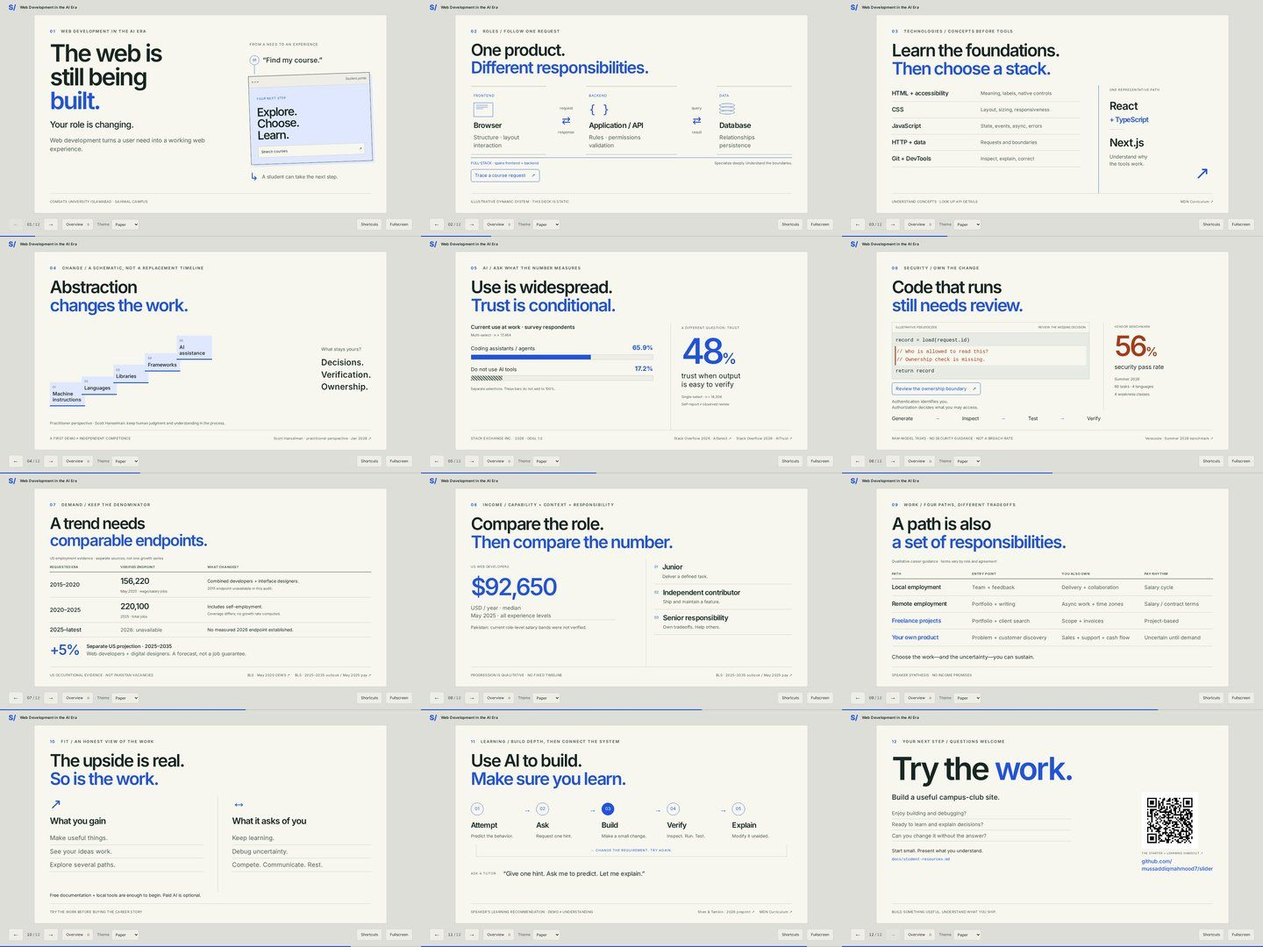
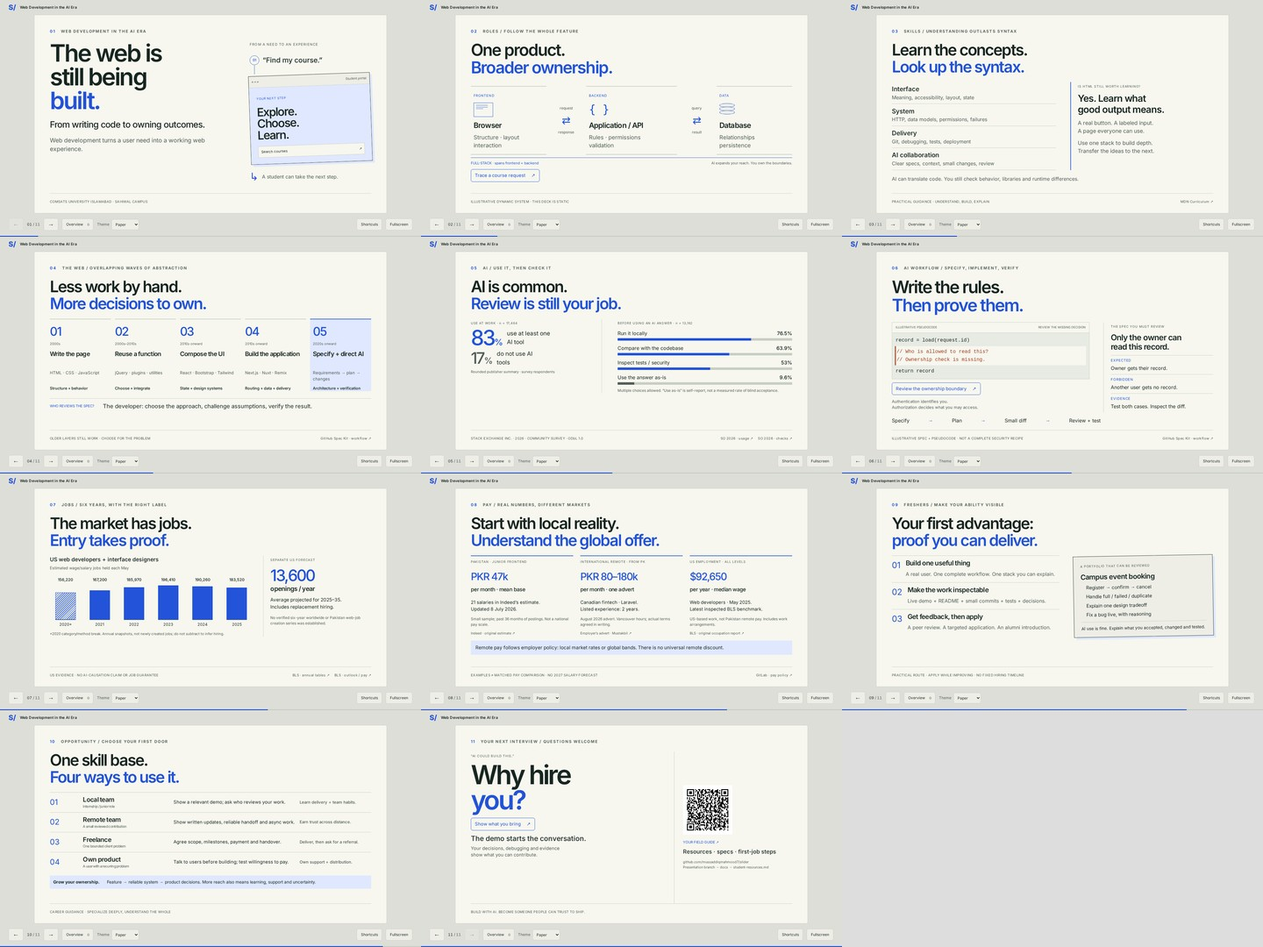
docs: align the student field guide and rehearsal record with eleven slides

diff --git a/docs/student-resources.md b/docs/student-resources.md
@@ -2,6 +2,36 @@
 
 A student handout for **Web Development in the AI Era**, COMSATS Sahiwal. Reviewed 17 October 2026. This is a menu, not a completion checklist. Start with the first path; choose deeper resources only when your project needs them. Free docs and local tooling are enough to begin. Save useful pages for intermittent internet; a paid AI plan is optional.
 
+## A spec you can build and review
+
+**Problem:** students need to reserve a place at a campus event. Start with one stack and a small workflow, then add complexity only when needed.
+
+- **Behavior:** show event capacity; reserve one place; confirm or cancel the reservation.
+- **Rules:** prevent duplicate booking; never exceed capacity; only the owner can cancel.
+- **Failure cases:** full event, failed request, invalid data, another user’s reservation.
+- **Acceptance:** test the successful booking and each forbidden case; check keyboard use and readable errors.
+- **Delivery:** a working demo, documented setup, small reviewed changes and an explanation of design choices.
+
+For a static first version, simulate data locally and label that limitation. Do not pretend a browser-only ownership check secures a real multi-user service. Add a server/database only when implementing real shared bookings.
+
+Ask AI: “Read this spec and existing code. List ambiguities before coding. Propose a small plan. Implement one change, add relevant tests, explain the diff.” Review the plan and tests as carefully as the code. Predict behavior, try it, inspect failures, then make a change without the full answer. [GitHub Spec Kit](https://github.com/github/spec-kit) is an optional documented workflow to explore after you understand the basic process.
+
+## Turn the project into a first-job packet
+
+1. **One-minute demo:** show the complete workflow, one failure and what you personally changed.
+2. **Readable repository:** setup instructions, meaningful commits, tests, one tradeoff and known limitations. State how AI helped and how you verified it.
+3. **Practice explaining:** trace a request, fix an introduced bug, explain a permission boundary, change one requirement.
+4. **Get review:** ask a peer/alumnus for specific feedback; improve the work. Contribute one small useful fix to a project you understand.
+5. **Apply deliberately:** select relevant junior roles/internships, tailor a short message with the demo, track responses and improve the gaps. Ask about supervision, review and actual contract terms.
+
+For remote work, add clear written progress and handoff examples. For a first freelance client, agree a small scope, acceptance, milestones, payment and handover. For a product, interview potential users before building and test willingness to pay. None of these routes guarantees hiring or income on a fixed schedule.
+
+## Check pay without importing a fantasy
+
+As inspected on 17 October 2026: [Indeed’s Pakistan junior frontend estimate](https://pk.indeed.com/career/junior-front-end-developer/salaries) is PKR 47,282/month average base, just 21 salaries, updated July 8. A [Canadian fintech’s Pakistan remote advert](https://www.mustakbil.com/jobs/job/1434430) lists PKR 80–180k/month for a role with two years’ listed experience and Vancouver overlap. They are limited examples, not a national salary ladder or guaranteed graduate offers.
+
+The [US BLS web-developer median](https://www.bls.gov/ooh/computer-and-information-technology/web-developers.htm) is $92,650/year for May 2025, all experience levels and work arrangements, not an on-site-only rate or Pakistan remote wage. [GitLab](https://handbook.gitlab.com/handbook/total-rewards/compensation/) uses local market pay; [Automattic’s experienced-engineer advert](https://automattic.com/work-with-us/job/experienced-software-engineer/) publishes a global USD 70–170k range regardless of location. Neither policy describes every remote employer. Check currency, period, benefits, tax, contract status, hours, equipment, leave and payment terms. No universal on-site/remote discount or future raise is established. See the [research ledger](research.md) for exact scope.
+
 ## Begin here
 
 1. **Run and change a page.** Follow [MDN Learn](https://developer.mozilla.org/en-US/docs/Learn_web_development). Create a campus-club information page with real headings, links and a labeled form. Explain what the browser renders.
@@ -64,21 +94,21 @@ Frontend and backend specialization remain valid. Learn adjacent concepts progre
 
 Choose one or two reports that answer your question; you do not need to read them all. The [research ledger](research.md) records exact stage values and access limits.
 
-| Original publisher / resource                                                                                                                                                                                         | Why read it / what it cannot tell you                                                                                                                                               |
-| --------------------------------------------------------------------------------------------------------------------------------------------------------------------------------------------------------------------- | ----------------------------------------------------------------------------------------------------------------------------------------------------------------------------------- |
-| [Stack Overflow 2026 AISelect](https://survey.stackoverflow.co/2026/ai/data/ai-select), [AITrust](https://survey.stackoverflow.co/2026/ai/data/ai-trust), [methods](https://survey.stackoverflow.co/2026/methodology) | Inspect different questions and bases. Community self-report is not all developers; usage, plans, trust and actual review differ. Data attribution: Stack Exchange Inc., ODbL 1.0.  |
-| [Veracode 2026 full report](https://view.ceros.com/veracode/genai-code-security-report2026)                                                                                                                           | Read Summer benchmark methods and task scope before repeating a security percentage. Raw-model task failures are not production incidents.                                          |
-| [Perry et al.](https://arxiv.org/html/2211.03622v3) and [Sandoval et al., USENIX](https://www.usenix.org/conference/usenixsecurity23/presentation/sandoval)                                                           | Compare matched human studies with older tools and different tasks. Results do not justify a universal AI-versus-human incident ratio.                                              |
-| [Shen & Tamkin, 2026 preprint](https://arxiv.org/html/2601.20245v2)                                                                                                                                                   | Distinguish immediate comprehension when learning Trio from long-term retention or all web students. Interaction patterns are exploratory.                                          |
-| [METR 2026 update](https://metr.org/blog/2026-02-24-uplift-update/)                                                                                                                                                   | Learn why tool changes and selection complicate developer-productivity estimates. No universal speed multiplier.                                                                    |
-| [DORA 2025](https://dora.dev/research/2025/dora-report/)                                                                                                                                                              | Organizational delivery practices and AI context; official entry includes report/errata. No numerical claim here from an unread full report.                                        |
-| [WEF Future of Jobs 2025](https://www.weforum.org/publications/the-future-of-jobs-report-2025/)                                                                                                                       | Employer expectations across economies/occupations; not realized web vacancies or a Pakistan graduate guarantee.                                                                    |
-| [BLS current web occupation outlook](https://www.bls.gov/ooh/computer-and-information-technology/web-developers.htm) and [2020 occupation definition](https://www.bls.gov/oes/2020/may/oes151257.htm)                 | US employment, wages and projections. Check occupation, geography, reference year and self-employment coverage.                                                                     |
-| [SlashData population estimates](https://www.slashdata.co/research/developer-population)                                                                                                                              | Commercial global developer-population estimates with methodological explanation; population is not job openings.                                                                   |
-| [P@SHA publications](https://www.pasha.org.pk/publications/)                                                                                                                                                          | Pakistan industry skills/compensation leads. Full current sources were inaccessible in this audit; inspect original questions before using numbers. No local bands were fabricated. |
-| [SBP data catalogue](https://www.sbp.org.pk/economic-data)                                                                                                                                                            | Original trade/service receipts; read sector and fiscal period. Exports do not count web vacancies. Report retrieval was blocked in this audit.                                     |
-| [PSEB reports](https://techdestination.com/rules-reports/)                                                                                                                                                            | Original sector/program publications; review report dates and definitions. Promotional/sector activity is not a hiring census.                                                      |
-| [PBS labour statistics](https://www.pbs.gov.pk/labour-force-statistics/)                                                                                                                                              | Original Pakistan labor-survey leads, classifications and broad platform-work context; detailed web employment was not established here.                                            |
-| [Scott Hanselman podcast, January 2026](https://stackoverflow.blog/2026/01/13/vibe-code-anything-in-a-hanselminute/)                                                                                                  | Practitioner perspective on human judgment, separate from measured findings.                                                                                                        |
+| Original publisher / resource                                                                                                                                                                                                | Why read it / what it cannot tell you                                                                                                                                                                                                                                       |
+| ---------------------------------------------------------------------------------------------------------------------------------------------------------------------------------------------------------------------------- | --------------------------------------------------------------------------------------------------------------------------------------------------------------------------------------------------------------------------------------------------------------------------- |
+| [Stack Overflow 2026 AISelect](https://survey.stackoverflow.co/2026/ai/data/ai-select), [AIWorkNext](https://survey.stackoverflow.co/2026/ai/data/ai-work-next), [methods](https://survey.stackoverflow.co/2026/methodology) | Inspect different questions and bases. Community self-report is not all developers; usage, plans, trust and actual review differ. Data attribution: Stack Exchange Inc., ODbL 1.0.                                                                                          |
+| [Veracode 2026 full report](https://view.ceros.com/veracode/genai-code-security-report2026)                                                                                                                                  | Read Summer benchmark methods and task scope before repeating a security percentage. Raw-model task failures are not production incidents.                                                                                                                                  |
+| [Perry et al.](https://arxiv.org/html/2211.03622v3) and [Sandoval et al., USENIX](https://www.usenix.org/conference/usenixsecurity23/presentation/sandoval)                                                                  | Compare matched human studies with older tools and different tasks. Results do not justify a universal AI-versus-human incident ratio.                                                                                                                                      |
+| [Shen & Tamkin, 2026 preprint](https://arxiv.org/html/2601.20245v2)                                                                                                                                                          | Distinguish immediate comprehension when learning Trio from long-term retention or all web students. Interaction patterns are exploratory.                                                                                                                                  |
+| [METR 2026 update](https://metr.org/blog/2026-02-24-uplift-update/)                                                                                                                                                          | Learn why tool changes and selection complicate developer-productivity estimates. No universal speed multiplier.                                                                                                                                                            |
+| [DORA 2025](https://dora.dev/research/2025/dora-report/)                                                                                                                                                                     | Organizational delivery practices and AI context; official entry includes report/errata. No numerical claim here from an unread full report.                                                                                                                                |
+| [WEF Future of Jobs 2025](https://www.weforum.org/publications/the-future-of-jobs-report-2025/)                                                                                                                              | Employer expectations across economies/occupations; not realized web vacancies or a Pakistan graduate guarantee.                                                                                                                                                            |
+| [BLS current web occupation outlook](https://www.bls.gov/ooh/computer-and-information-technology/web-developers.htm) and [2020 occupation definition](https://www.bls.gov/oes/2020/may/oes151257.htm)                        | US employment, wages and projections. Check occupation, geography, reference year and self-employment coverage.                                                                                                                                                             |
+| [SlashData population estimates](https://www.slashdata.co/research/developer-population)                                                                                                                                     | Commercial global developer-population estimates with methodological explanation; population is not job openings.                                                                                                                                                           |
+| [P@SHA publications](https://www.pasha.org.pk/publications/)                                                                                                                                                                 | Pakistan industry skills/compensation leads. Full current sources were inaccessible in this audit; inspect original questions before using numbers. Platform estimates and employer adverts now provide limited local context; they are not the unread P@SHA salary tables. |
+| [SBP data catalogue](https://www.sbp.org.pk/economic-data)                                                                                                                                                                   | Original trade/service receipts; read sector and fiscal period. Exports do not count web vacancies. Report retrieval was blocked in this audit.                                                                                                                             |
+| [PSEB reports](https://techdestination.com/rules-reports/)                                                                                                                                                                   | Original sector/program publications; review report dates and definitions. Promotional/sector activity is not a hiring census.                                                                                                                                              |
+| [PBS labour statistics](https://www.pbs.gov.pk/labour-force-statistics/)                                                                                                                                                     | Original Pakistan labor-survey leads, classifications and broad platform-work context; detailed web employment was not established here.                                                                                                                                    |
+| [Scott Hanselman podcast, January 2026](https://stackoverflow.blog/2026/01/13/vibe-code-anything-in-a-hanselminute/)                                                                                                         | Practitioner perspective on human judgment, separate from measured findings.                                                                                                                                                                                                |
 
 For an offer, ask about the actual role, geography, currency, pay period, base/benefits, hours, scope and contract. US annual wages, PKR monthly pay, freelance revenue and business profit measure different things. None is a promise about you.

diff --git a/docs/asset-credits.md b/docs/asset-credits.md
@@ -2,15 +2,19 @@
 
 Access/download date: 17 October 2026. All stage assets are local. No stock photos, university logo, third-party chart screenshots, or remote font calls are included.
 
-| Asset                                                                                | Creator / source                                                                                                                                              | Rights / treatment                                                                                                                                                                                                                                                           |
-| ------------------------------------------------------------------------------------ | ------------------------------------------------------------------------------------------------------------------------------------------------------------- | ---------------------------------------------------------------------------------------------------------------------------------------------------------------------------------------------------------------------------------------------------------------------------- |
-| Typography: Inter Latin variable subset                                              | Rasmus Andersson; Fontsource package 5.3.0, https://www.npmjs.com/package/@fontsource-variable/inter; original https://github.com/rsms/inter                  | SIL OFL 1.1, included in `public/fonts/inter-OFL.txt`.                                                                                                                                                                                                                       |
-| Noto Sans Arabic variable subset (optional starter example)                          | The Noto Project; Fontsource package 5.3.0, https://www.npmjs.com/package/@fontsource-variable/noto-sans-arabic; original https://github.com/notofonts/arabic | SIL OFL 1.1, included in `public/fonts/noto-sans-arabic-OFL.txt`.                                                                                                                                                                                                            |
-| Student portal sketch, request diagram, abstraction ladder, practice loop and charts | Original HTML/CSS/React compositions in this repository                                                                                                       | Original code/design under MIT. Diagrams labeled illustrative/schematic; no borrowed logos.                                                                                                                                                                                  |
-| Repository QR, `public/images/repository-qr.svg`                                     | Generated locally using `qrcode` 1.5.4 (MIT utility, https://github.com/soldair/node-qrcode)                                                                  | Encodes the verified real URL https://github.com/mussaddiqmahmood7/slider. Black/white plate intentionally remains invariant for scanning in every theme. No runtime QR dependency.                                                                                          |
-| Selected AI usage/trust numbers                                                      | Stack Exchange Inc. (2026), Developer Survey AISelect/AITrust; exact URLs in `src/content/evidence.ts`                                                        | Original data under [ODbL 1.0](https://opendatacommons.org/licenses/odbl/1-0/), contents under DbCL 1.0. Attribution appears on slide 5. Only selected factual excerpts are used; no full dataset/report is redistributed or relicensed as MIT. Original chart code is ours. |
-| US employment, forecast and wage values                                              | US Bureau of Labor Statistics; original URLs in evidence file                                                                                                 | Attributed factual excerpts from US government publications; chart/table code is original. Occupation and coverage labels preserved.                                                                                                                                         |
-| Security benchmark headline                                                          | Veracode 2026 GenAI Code Security Report, https://view.ceros.com/veracode/genai-code-security-report2026                                                      | Cited factual result only; no report graphics/text/screenshots redistributed. All rights in the publication remain with Veracode.                                                                                                                                            |
-| Learning/security papers, official learning links, practitioner perspective          | Authors/publishers individually credited in research and handout                                                                                              | Links and short original paraphrases only. Papers/courses retain their respective rights; no course or paper files are bundled.                                                                                                                                              |
+| Asset                                                                                                               | Creator / source                                                                                                                                              | Rights / treatment                                                                                                                                                                                                                                                           |
+| ------------------------------------------------------------------------------------------------------------------- | ------------------------------------------------------------------------------------------------------------------------------------------------------------- | ---------------------------------------------------------------------------------------------------------------------------------------------------------------------------------------------------------------------------------------------------------------------------- |
+| Typography: Inter Latin variable subset                                                                             | Rasmus Andersson; Fontsource package 5.3.0, https://www.npmjs.com/package/@fontsource-variable/inter; original https://github.com/rsms/inter                  | SIL OFL 1.1, included in `public/fonts/inter-OFL.txt`.                                                                                                                                                                                                                       |
+| Noto Sans Arabic variable subset (optional starter example)                                                         | The Noto Project; Fontsource package 5.3.0, https://www.npmjs.com/package/@fontsource-variable/noto-sans-arabic; original https://github.com/notofonts/arabic | SIL OFL 1.1, included in `public/fonts/noto-sans-arabic-OFL.txt`.                                                                                                                                                                                                            |
+| Student portal sketch, request diagram, web waves, employment/review charts, portfolio receipt and interview reveal | Original HTML/CSS/React compositions in this repository                                                                                                       | Original code/design under MIT. Diagrams labeled illustrative/schematic; no borrowed logos.                                                                                                                                                                                  |
+| Repository QR, `public/images/repository-qr.svg`                                                                    | Generated locally using `qrcode` 1.5.4 (MIT utility, https://github.com/soldair/node-qrcode)                                                                  | Encodes the verified real URL https://github.com/mussaddiqmahmood7/slider. Black/white plate intentionally remains invariant for scanning in every theme. No runtime QR dependency.                                                                                          |
+| Selected AI usage/checking numbers                                                                                  | Stack Exchange Inc. (2026), Developer Survey AISelect/AIWorkNext; exact URLs in `src/content/evidence.ts`                                                     | Original data under [ODbL 1.0](https://opendatacommons.org/licenses/odbl/1-0/), contents under DbCL 1.0. Attribution appears on slide 5. Only selected factual excerpts are used; no full dataset/report is redistributed or relicensed as MIT. Original chart code is ours. |
+| US employment, forecast and wage values                                                                             | US Bureau of Labor Statistics; original URLs in evidence file                                                                                                 | Attributed factual excerpts from US government publications; chart/table code is original. Occupation and coverage labels preserved.                                                                                                                                         |
+| Security benchmark headline                                                                                         | Veracode 2026 GenAI Code Security Report, https://view.ceros.com/veracode/genai-code-security-report2026                                                      | Cited factual result only; no report graphics/text/screenshots redistributed. All rights in the publication remain with Veracode.                                                                                                                                            |
+| Learning/security papers, official learning links, practitioner perspective                                         | Authors/publishers individually credited in research and handout                                                                                              | Links and short original paraphrases only. Papers/courses retain their respective rights; no course or paper files are bundled.                                                                                                                                              |
 
 COMSATS is referenced in text to identify the venue. No university branding or endorsement is implied. Speaker name, employer and date are omitted because not supplied.
+
+The closing **resource QR**, `public/images/resources-qr.svg`, was generated locally with the same qrcode utility. It encodes `https://github.com/mussaddiqmahmood7/slider/tree/presentation/comsats-sahiwal/docs/student-resources.md`. Its high-contrast plate stays invariant across themes. No remote image or QR API is used.
+
+Pakistan salary figures are short factual excerpts attributed to Indeed’s original platform estimate and an employer-authored Mustakbil advert. GitLab/Automattic pay policies are linked and paraphrased; their texts, logos and job descriptions are not redistributed. These facts/links are not relicensed as MIT. The revised slide 6 omits the benchmark number; Veracode and original learning/security studies remain cited in research/speaker notes for context.

diff --git a/docs/validation.md b/docs/validation.md
@@ -25,9 +25,9 @@ A clean `npm ci`, check before building with no `.next` directory, and a fresh b
 
 The owner supplied [the public repository](https://github.com/mussaddiqmahmood7/slider); main is the default branch. Main CI [39013967894](https://github.com/mussaddiqmahmood7/slider/actions/runs/39013967894) passed, and v0.1.0 was pushed before event development. A subsequent accessibility audit found low-contrast muted controls in Sand; main's token was darkened and the core suite was rechecked. Custom ARIA widgets also keep keyboard ownership. An axe-core audit supplements the behavior suite, without adding another test runner or runtime dependency. Template status still requires repository administration API access or the owner's GitHub setting.
 
-## COMSATS presentation result
+## Initial COMSATS presentation result — historical
 
-The event registry contains 12 slides. The opening, system diagram and evidence composition were rendered at 1920×1080 and 1366×768 in all four themes before the remaining deck was filled. The visual direction uses editorial typography, ruled diagrams, a schematic ladder, labeled evidence, comparisons and a practice loop; all inherit semantic theme colors. `docs/deck-overview.jpg` shows the finished layout variety.
+The initial event registry contained 12 slides, before the content revision below. The opening, system diagram and evidence composition were rendered at 1920×1080 and 1366×768 in all four themes before the remaining deck was filled. The visual direction uses editorial typography, ruled diagrams, a schematic ladder, labeled evidence, comparisons and a practice loop; all inherit semantic theme colors. `docs/deck-overview.jpg` shows the finished layout variety.
 
 Final local checks:
 
@@ -41,4 +41,20 @@ Final local checks:
 - The event export is about **1008 KiB**. Seven JavaScript chunks total **614,470 raw bytes / 189,792 gzip bytes**, including framework code. There is no chart, carousel or animation runtime dependency.
 - Main remains generic. The shared Sand contrast/custom-widget fix was committed and validated on main, then cherry-picked into the event branch. Latest main CI [39014887111](https://github.com/mussaddiqmahmood7/slider/actions/runs/39014887111) passed. Event CI is checked against the pushed branch through [GitHub Actions](https://github.com/mussaddiqmahmood7/slider/actions).
 
-Limits: no physical projector, real screen-reader session, Safari/Firefox run, repository-subpath deployment or whole-deck printing was tested. The main-source Urdu example does not certify arbitrary RTL slides. Current local compensation detail, a comparable 2015 historical endpoint and certain original Pakistan reports were inaccessible; see the ledger. Speaker name/employer/date remain omitted. The documented development-only braces advisory is still unpatched upstream; production dependency audit is clean. GitHub template status remains an owner/API administration step; main is already the default branch and Issues are enabled.
+Limits: no physical projector, real screen-reader session, Safari/Firefox run, repository-subpath deployment or whole-deck printing was tested. The main-source Urdu example does not certify arbitrary RTL slides. P@SHA compensation detail, a comparable 2015 historical endpoint and certain original Pakistan reports were inaccessible; the later revision adds limited Indeed/employer compensation evidence. Speaker name/employer/date remain omitted. The documented development-only braces advisory is still unpatched upstream; production dependency audit is clean. GitHub template status remains an owner/API administration step; main is already the default branch and Issues are enabled.
+
+## Revised 11-slide keynote — 17 October 2026
+
+The event registry now contains **11 slides**, centered on concepts, system ownership, overlapping web eras, spec-driven AI collaboration, checking behavior and practical entry into work. The standalone learning-loop slide is removed; its useful guidance is integrated into concepts, verification and portfolio advice. The closing has a keyboard-accessible interview-answer reveal and a QR linking directly to this branch’s handout. Main remains unchanged.
+
+Performed after the revision:
+
+- ESLint, Prettier, strict TypeScript and production static export passed. Real commit hooks ran successfully.
+- **9 Chromium tests passed; 1 starter-only opt-in localization test was deliberately skipped.** The new test covers the closing reveal, keyboard activation, theme/state persistence and resource target. The layout test asserts exactly 11 overview entries. Existing navigation, history, overview focus, fullscreen, reduced motion, security-review and no-external-service checks passed.
+- A fresh **220-render matrix** (11 slides × 4 themes × 5 viewports) reported no slide overflow, missing assets or page errors. Sizes: 1920×1080, 1366×768, 1024×768, 1280×600 and 390×844. The first pass found concepts-slide clipping; row spacing/line heights were corrected before the successful rerun. Obsolete composition styles were removed.
+- Fresh contact sheets were inspected in Paper, Midnight, Blueprint and Sand. Full-size timeline, evidence, market, pay, workflow and closing renders were inspected. `docs/deck-overview.jpg` now shows the 11-slide version.
+- **axe-core 4.14.0 reported zero automated WCAG A/AA violations** across the 11 slides and overview in all themes. This does not substitute for screen-reader user testing or physical projector rehearsal.
+- All research values were checked against original question tables, BLS releases, platform estimates or employer-authored adverts. The six annual chart values are explicitly employment snapshots, not job creation. The 2022 total was corrected during source cross-checking before commit. Current Pakistan pay evidence and remote-policy limits are documented in `research.md`.
+- Seven exported JavaScript chunks total **615,713 raw bytes / 190,598 gzip bytes**. No runtime service or additional library was added.
+
+Remaining evidence limits: no verified six-year worldwide/Pakistan web-job creation series, representative matched global on-site/remote pay comparison, or individual future salary forecast. US employment is not Pakistan vacancies; platform estimates and single adverts are not representative salary bands. Existing host/browser, accessibility and deployment limits above still apply. The English-only keynote does not claim a complete Urdu translation.

diff --git a/README.md b/README.md
@@ -1,10 +1,10 @@
 # Web Development in the AI Era
 
-The **COMSATS University Islamabad, Sahiwal Campus** presentation branch. Twelve slides covering web careers, roles, foundations, AI, security, market evidence, income, work paths, tradeoffs, learning and personal fit.
+The **COMSATS University Islamabad, Sahiwal Campus** presentation branch. Eleven slides about concepts, broader system ownership, the web’s changing abstractions, working with AI, realistic market evidence and a fresher’s route into paid work.
 
 For the reusable, neutral starter and the three-step authoring guide, use **[main](https://github.com/mussaddiqmahmood7/slider/tree/main)** or **[v0.1.0](https://github.com/mussaddiqmahmood7/slider/tree/v0.1.0)**. Event content is kept off main.
 
-![The actual twelve-slide presentation](docs/deck-overview.jpg)
+![The actual eleven-slide presentation](docs/deck-overview.jpg)
 
 ## Run and rehearse
 
@@ -24,19 +24,19 @@ npm run preview
 
 Open http://localhost:3000. Preview serves the static `out/` export; restart it after rebuilding. No `next start`, runtime API, database or external assets are needed. Once dependencies/build output exist, the core deck works without internet while the local server runs. Citation/repository links need internet when opened. `file://` is unsupported.
 
-Use ←/→, Page Up/Down, Space/Shift+Space and Home/End. **G** opens the keyboard-accessible overview. **F** requests fullscreen. Controls remain available for touch; shortcuts pause inside interactive content. Themes persist and keep interaction state. Deep links include `/#review-the-code` and `/#learn-with-ai`. Motion respects reduced-motion preferences; phone layouts scroll naturally.
+Use ←/→, Page Up/Down, Space/Shift+Space and Home/End. **G** opens the keyboard-accessible overview. **F** requests fullscreen. Controls remain available for touch; shortcuts pause inside interactive content. Themes persist and keep interaction state. Deep links include `/#review-the-code` and `/#try-the-work`. Motion respects reduced-motion preferences; phone layouts scroll naturally.
 
-The request trace on slide 2 and ownership review on slide 6 are local teaching interactions. Security pseudocode is illustrative, not production security certification. The event is English-only by default. The compact opt-in Urdu example belongs to the neutral starter on main; this talk is not a complete translation.
+The request trace on slide 2, ownership review on slide 6 and interview-answer reveal on slide 11 are local teaching interactions. Security pseudocode is illustrative, not production security certification. The event is English-only by default. The compact opt-in Urdu example belongs to the neutral starter on main; this talk is not a complete translation.
 
 ## Notes, evidence and learning path
 
 - [Student handout: begin here, milestones and primary-resource library](docs/student-resources.md).
-- [Speaker notes: 12 slide outlines, timings, prompts and Roman Urdu cues](docs/speaker-notes.md).
+- [Speaker notes: 11 slide outlines, timings, prompts and Roman Urdu cues](docs/speaker-notes.md).
 - [Research ledger: exact definitions, sources, verification/access status and limits](docs/research.md).
 - [Asset credits and licenses](docs/asset-credits.md).
 - [Performed validation and remaining limitations](docs/validation.md).
 
-**Research cutoff: 17 October 2026.** Current stage findings use the 2026 Stack Overflow questions, Veracode's Summer 2026 original report and BLS's current outlook/wage tables. Historical occupation/coverage breaks prevent a continuous 2015–2026 growth claim. Current Pakistan compensation details and some original local reports could not be retrieved; no PKR ranges were invented. US wages and forecasts are labeled US context. The learning loop and career guidance are speaker synthesis; studies do not prove a fixed time to mastery/employment.
+**Research cutoff: 17 October 2026.** Slide 5 uses the original Stack Overflow usage and checking questions. Slide 7 shows six US annual employment snapshots for 2020–2025, explicitly **not jobs created**; classification/method changes prevent a clean hiring trend. A separate BLS openings forecast is labeled as a forecast. Slide 8 adds a small Pakistan junior frontend pay estimate and a current international remote employer advert alongside the scoped US wage benchmark. These are different populations, not a matched remote/on-site comparison. No universal remote discount or future salary is asserted. Some P@SHA/Pakistan reports remain inaccessible; no figures from unread tables are used. Career guidance is speaker synthesis, not a hiring guarantee.
 
 No speaker name, role, employer or event date was supplied; the slides omit these rather than guessing. Add confirmed metadata to the opener/config if desired.
 
@@ -55,4 +55,4 @@ The default suite intentionally skips the starter's opt-in localization test. It
 
 Deploy the contents of `out/` to a root-domain static host. Repository-subpath deployment needs a matching Next.js base path and public font/image path prefixes; this configuration has not been validated for subpaths. No whole-deck print/PDF feature or private presenter display is included.
 
-Code/design: [MIT](LICENSE). Fonts and cited data retain their separately documented licenses. Repository QR points to the real public source; use main when starting your own deck.
+Code/design: [MIT](LICENSE). Fonts and cited data retain their separately documented licenses. The closing QR opens the student handout on this branch; use main when starting your own deck.
